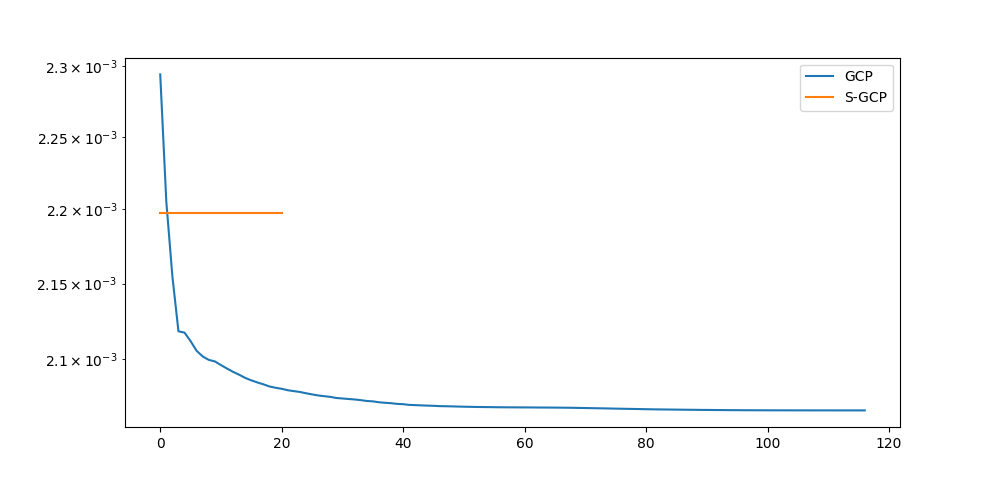
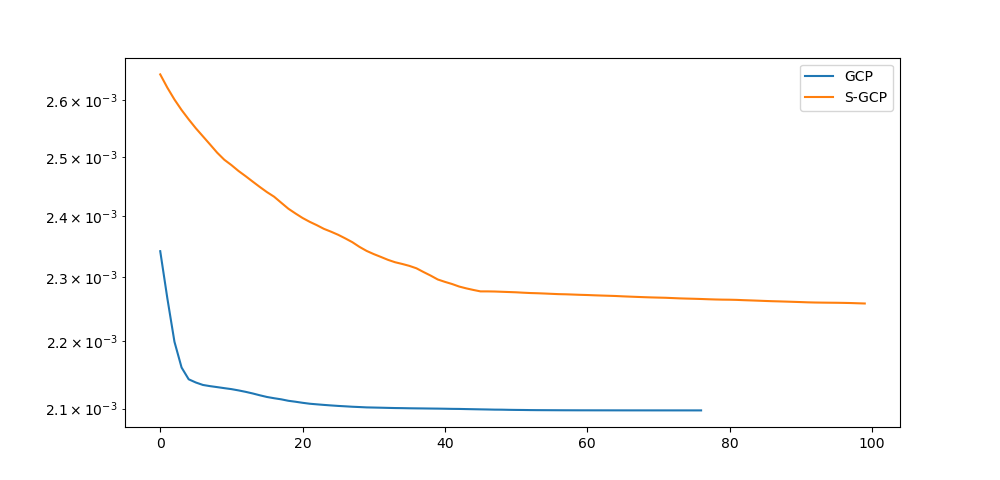
update sgcp example

diff --git a/doc/source/auto_examples/plot_generalized_parafac.py b/doc/source/auto_examples/plot_generalized_parafac.py
@@ -98,7 +98,7 @@ time_gcp = time.time() - tic
 tic = time.time()
 tensor_sgcp, errors_sgcp = stochastic_generalized_parafac(tensor, rank=rank, init=init,
                                                           return_errors=True, loss=loss, lr=1e-3,
-                                                          n_iter_max=1000, batch_size=50, epochs=100)
+                                                          n_iter_max=10, batch_size=50, epochs=100)
 cp_reconstruction_sgcp = tl.cp_to_tensor(tensor_sgcp)
 time_sgcp = time.time() - tic
 

diff --git a/doc/source/examples/plot_generalized_parafac.py b/doc/source/examples/plot_generalized_parafac.py
@@ -98,7 +98,7 @@ time_gcp = time.time() - tic
 tic = time.time()
 tensor_sgcp, errors_sgcp = stochastic_generalized_parafac(tensor, rank=rank, init=init,
                                                           return_errors=True, loss=loss, lr=1e-3,
-                                                          n_iter_max=1000, batch_size=50, epochs=100)
+                                                          n_iter_max=10, batch_size=50, epochs=100)
 cp_reconstruction_sgcp = tl.cp_to_tensor(tensor_sgcp)
 time_sgcp = time.time() - tic
 

diff --git a/doc/source/auto_examples/plot_generalized_parafac.rst b/doc/source/auto_examples/plot_generalized_parafac.rst
@@ -174,21 +174,13 @@ reaching 20 successive bad iteration.
     tic = time.time()
     tensor_sgcp, errors_sgcp = stochastic_generalized_parafac(tensor, rank=rank, init=init,
                                                               return_errors=True, loss=loss, lr=1e-3,
-                                                              n_iter_max=1000, batch_size=50, epochs=100)
+                                                              n_iter_max=10, batch_size=50, epochs=100)
     cp_reconstruction_sgcp = tl.cp_to_tensor(tensor_sgcp)
     time_sgcp = time.time() - tic
 
 
 
 
-
-.. rst-class:: sphx-glr-script-out
-
- Out:
-
- .. code-block:: none
-
-    Sufficient number of bad epochs
 
 
 
@@ -251,15 +243,15 @@ the true `cp_tensor` which is the main goal of GCP.
 
  .. code-block:: none
 
-    RMSE for GCP: 0.10
-    RMSE for SGCP: 0.20
-    RMSE for NN-CP: 0.40
-    Loss for GCP: 0.67
-    Loss for SGCP: 0.71
-    Loss for NN-CP: 0.92
-    GCP time: 2.65
-    SGCP time: 6.79
-    NN-CP time: 0.43
+    RMSE for GCP: 0.09
+    RMSE for SGCP: 0.25
+    RMSE for NN-CP: 0.35
+    Loss for GCP: 0.68
+    Loss for SGCP: 0.74
+    Loss for NN-CP: 0.88
+    GCP time: 1.82
+    SGCP time: 0.57
+    NN-CP time: 0.63
 
 
 
@@ -311,7 +303,7 @@ SIAM Journal on Mathematics of Data Science, 2(4), 1066-1095.
 
 .. rst-class:: sphx-glr-timing
 
-   **Total running time of the script:** ( 0 minutes  10.152 seconds)
+   **Total running time of the script:** ( 0 minutes  3.329 seconds)
 
 
 .. _sphx_glr_download_auto_examples_plot_generalized_parafac.py:

diff --git a/doc/source/auto_examples/sg_execution_times.rst b/doc/source/auto_examples/sg_execution_times.rst
@@ -5,12 +5,12 @@
 
 Computation times
 =================
-**00:04.968** total execution time for **auto_examples** files:
+**00:03.329** total execution time for **auto_examples** files:
 
 +-------------------------------------------------------------------------------------------------+-----------+--------+
-| :ref:`sphx_glr_auto_examples_plot_masking_rainfall_data.py` (``plot_masking_rainfall_data.py``) | 00:04.968 | 0.0 MB |
+| :ref:`sphx_glr_auto_examples_plot_generalized_parafac.py` (``plot_generalized_parafac.py``)     | 00:03.329 | 0.0 MB |
 +-------------------------------------------------------------------------------------------------+-----------+--------+
-| :ref:`sphx_glr_auto_examples_plot_generalized_parafac.py` (``plot_generalized_parafac.py``)     | 00:00.000 | 0.0 MB |
+| :ref:`sphx_glr_auto_examples_plot_masking_rainfall_data.py` (``plot_masking_rainfall_data.py``) | 00:00.000 | 0.0 MB |
 +-------------------------------------------------------------------------------------------------+-----------+--------+
 | :ref:`sphx_glr_auto_examples_plot_using_your_own_loss.py` (``plot_using_your_own_loss.py``)     | 00:00.000 | 0.0 MB |
 +-------------------------------------------------------------------------------------------------+-----------+--------+
